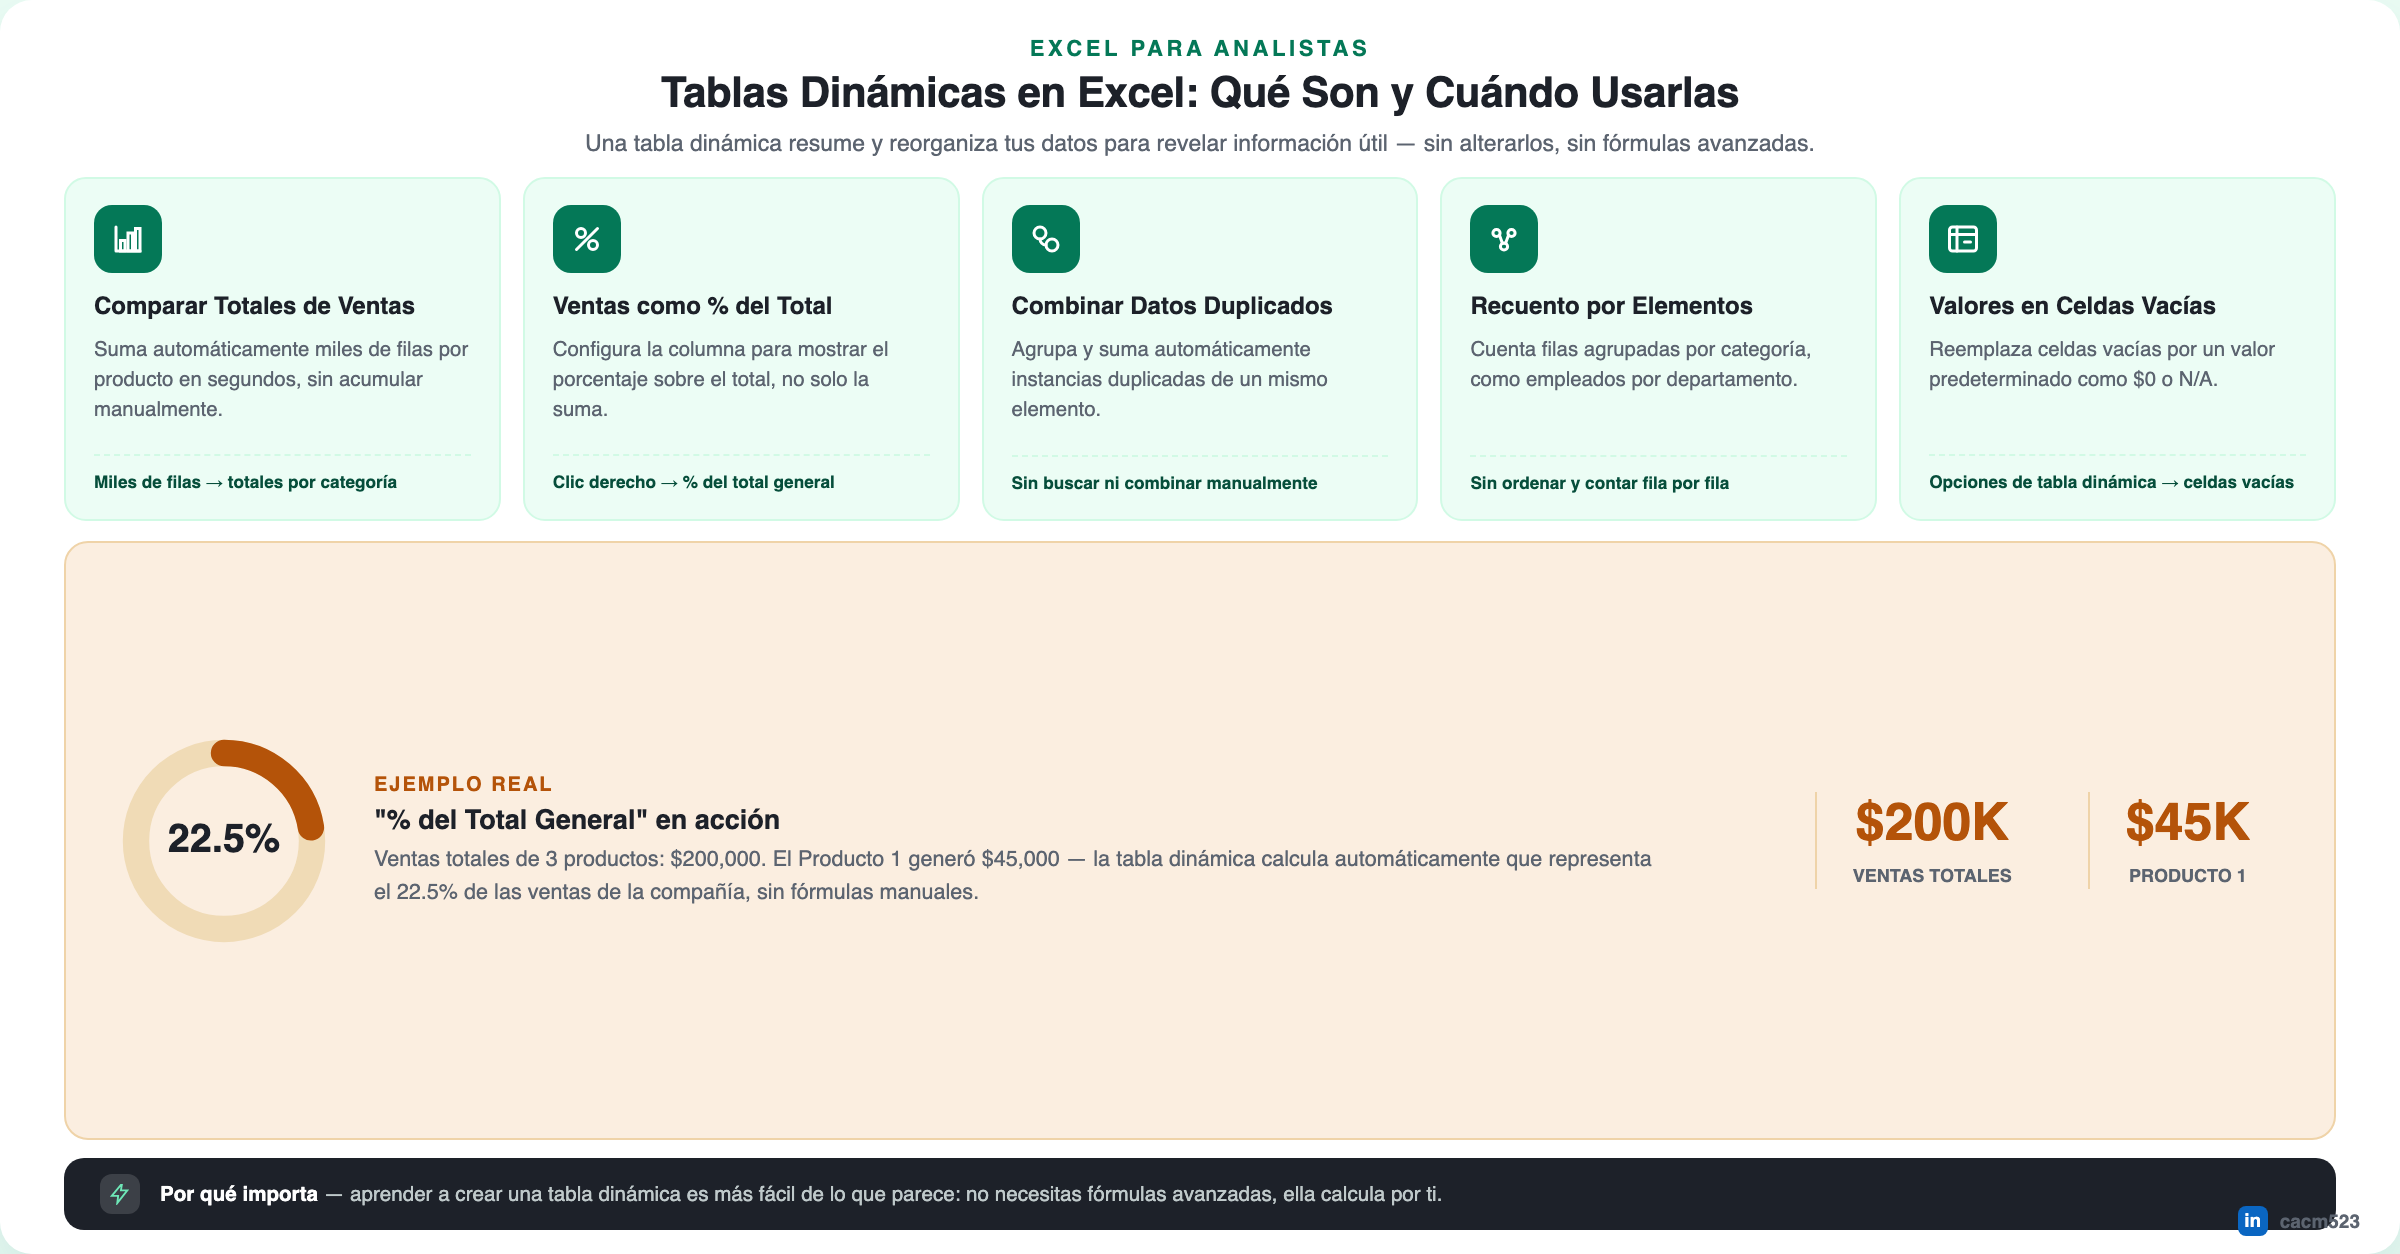
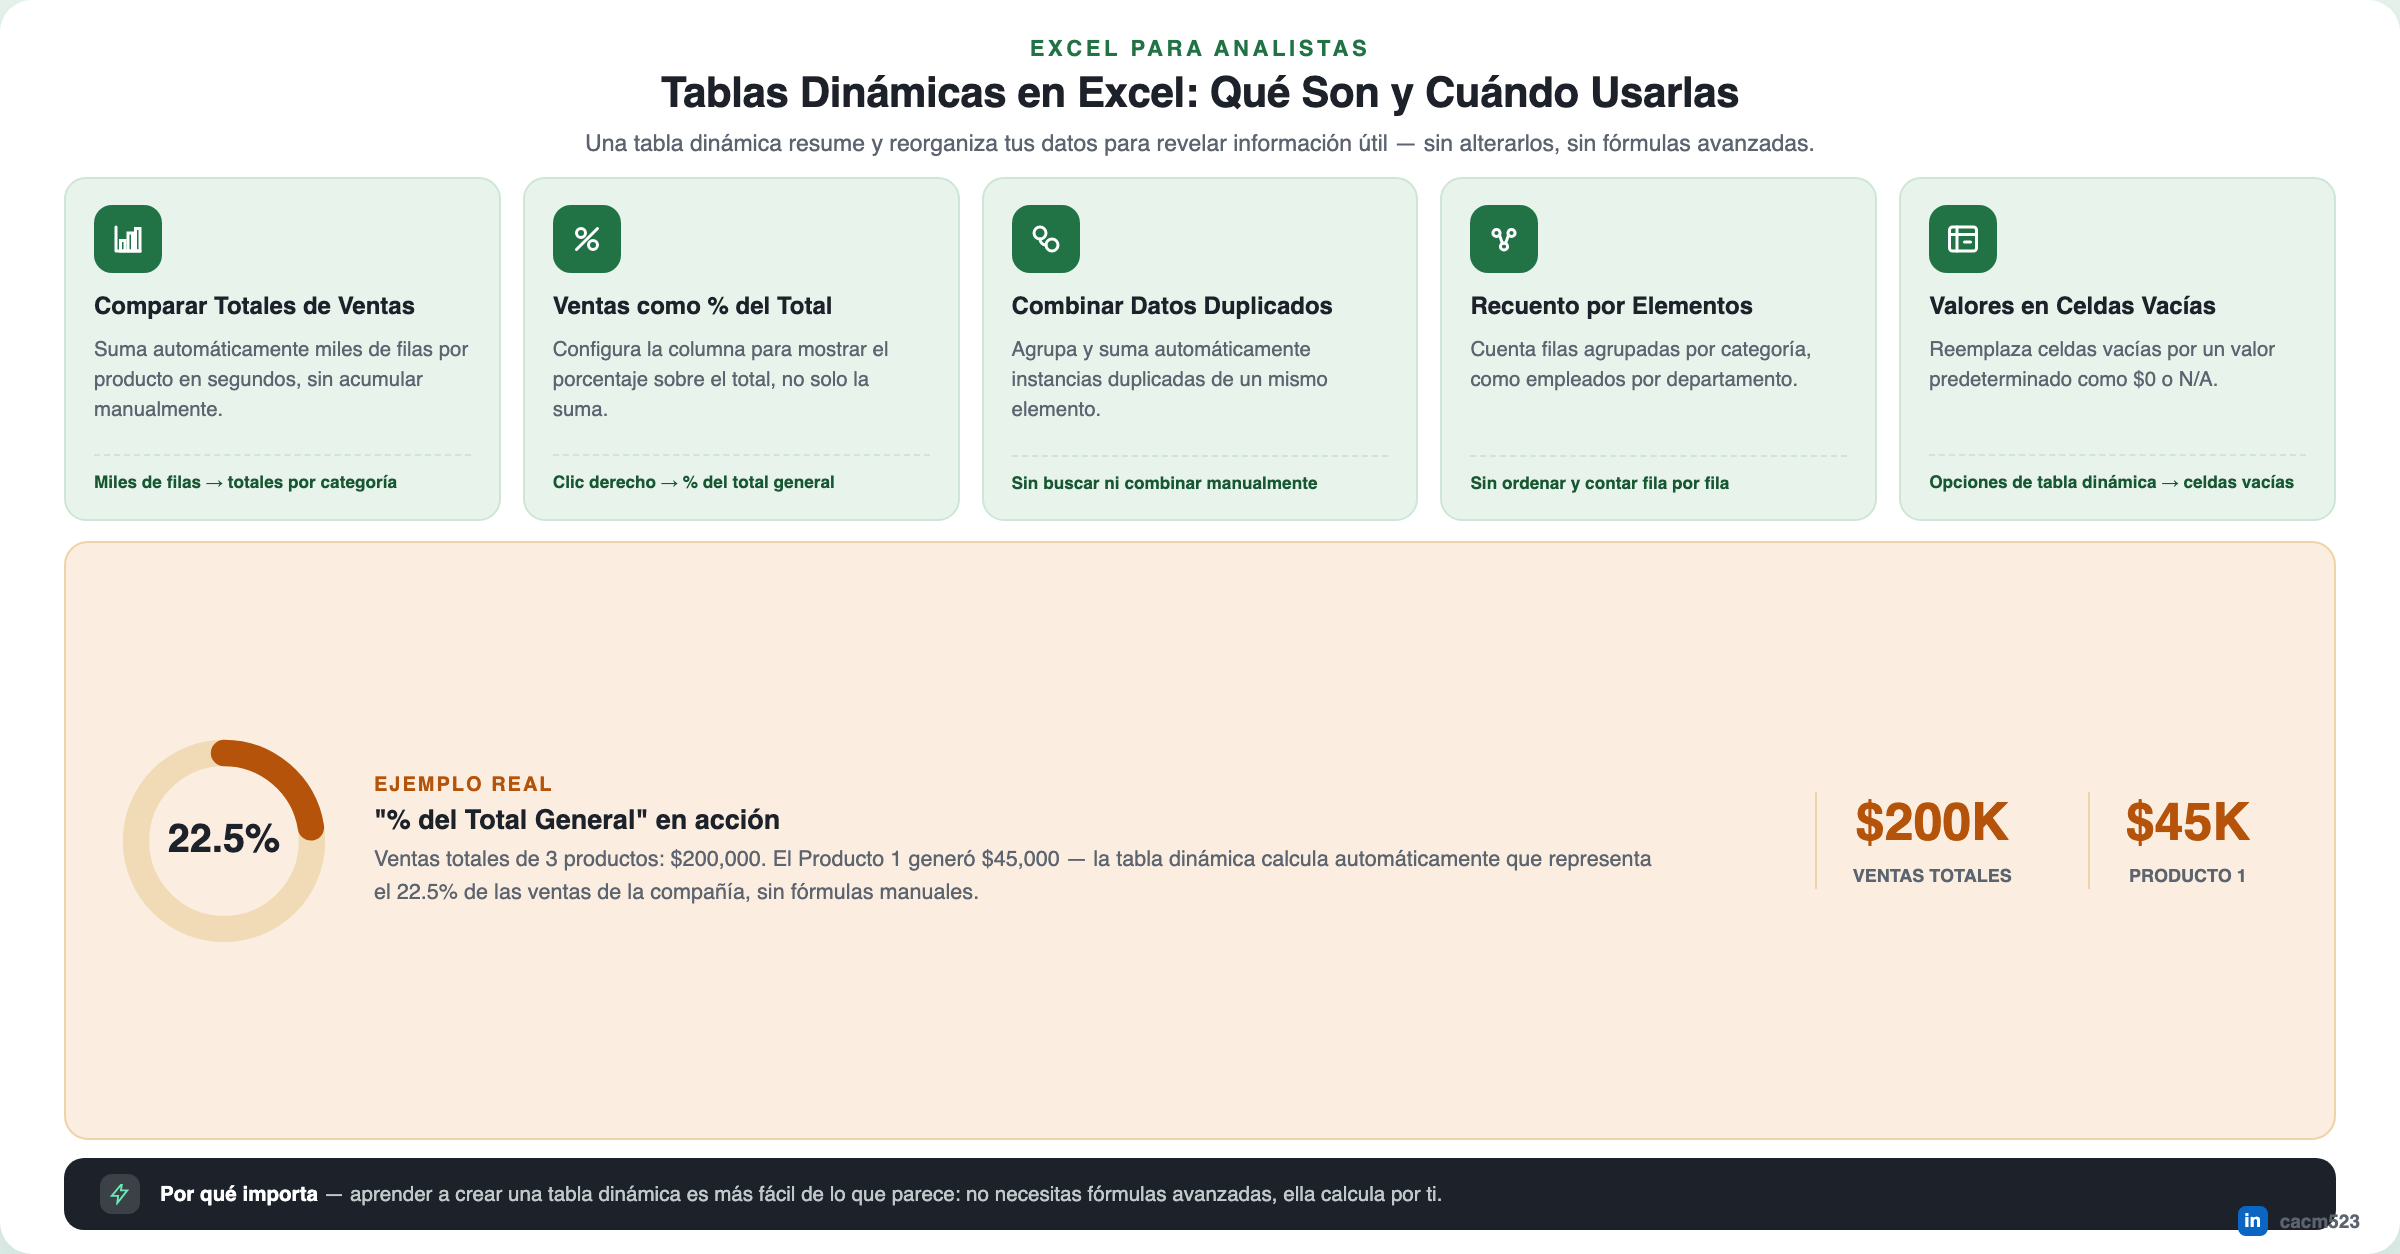
Ajusta tablas-dinamicas-excel al verde exacto de marca Excel (#217346)
tipos-archivos-excel y automatizar-macros-excel ya usaban el verde oficial de Excel; se deja consistencia entre las 3 piezas del tema.

diff --git a/Construidos/Excel/tablas-dinamicas-excel.html b/Construidos/Excel/tablas-dinamicas-excel.html
@@ -6,7 +6,7 @@
 <meta name="viewport" content="width=device-width, initial-scale=1">
 <style>
   :root{
-    --teal:#047857; --teal-dark:#064E3B; --teal-pale:#ECFDF5; --line:#D1FAE5;
+    --teal:#217346; --teal-dark:#175732; --teal-pale:#E8F3EC; --line:#CDE6D6;
     --amber:#B45309; --amber-pale:#FBEEE0;
     --ink:#1D2129; --muted:#5C6470; --white:#FFFFFF; --paper:#F7F8FA;
   }
@@ -14,7 +14,7 @@
   html,body{margin:0;padding:0;}
   body{
     min-height:627px; display:flex; align-items:center; justify-content:center;
-    padding:32px 16px; background:#ECFDF5;
+    padding:32px 16px; background:#E8F3EC;
     font-family: Inter, -apple-system, "Segoe UI", Roboto, Helvetica, Arial, sans-serif;
   }
   .canvas-wrap{ width:100%; max-width:1200px; overflow-x:auto; }
